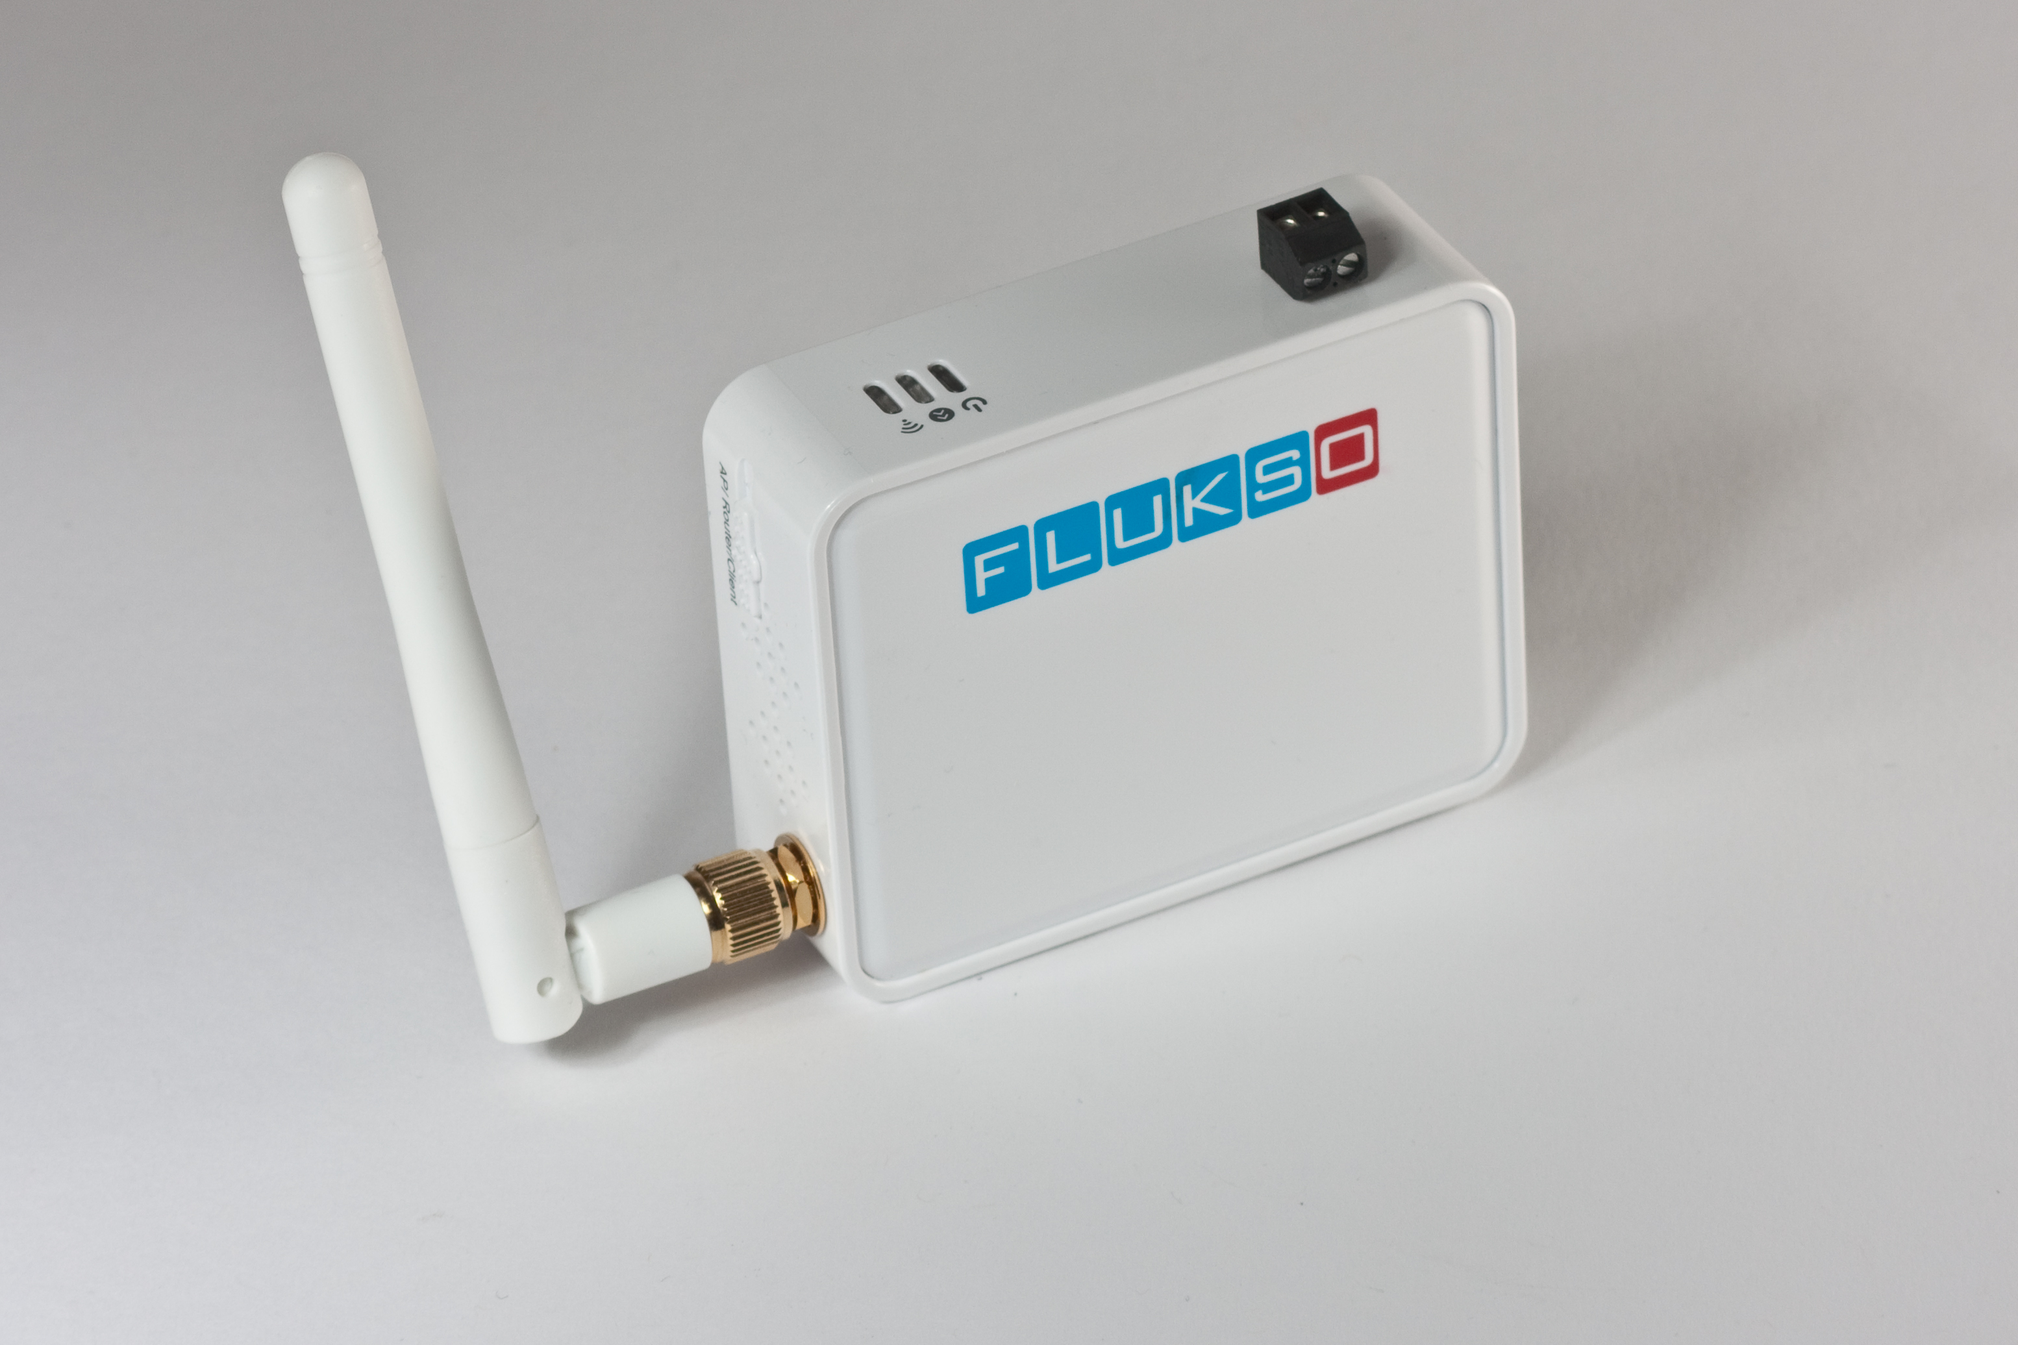
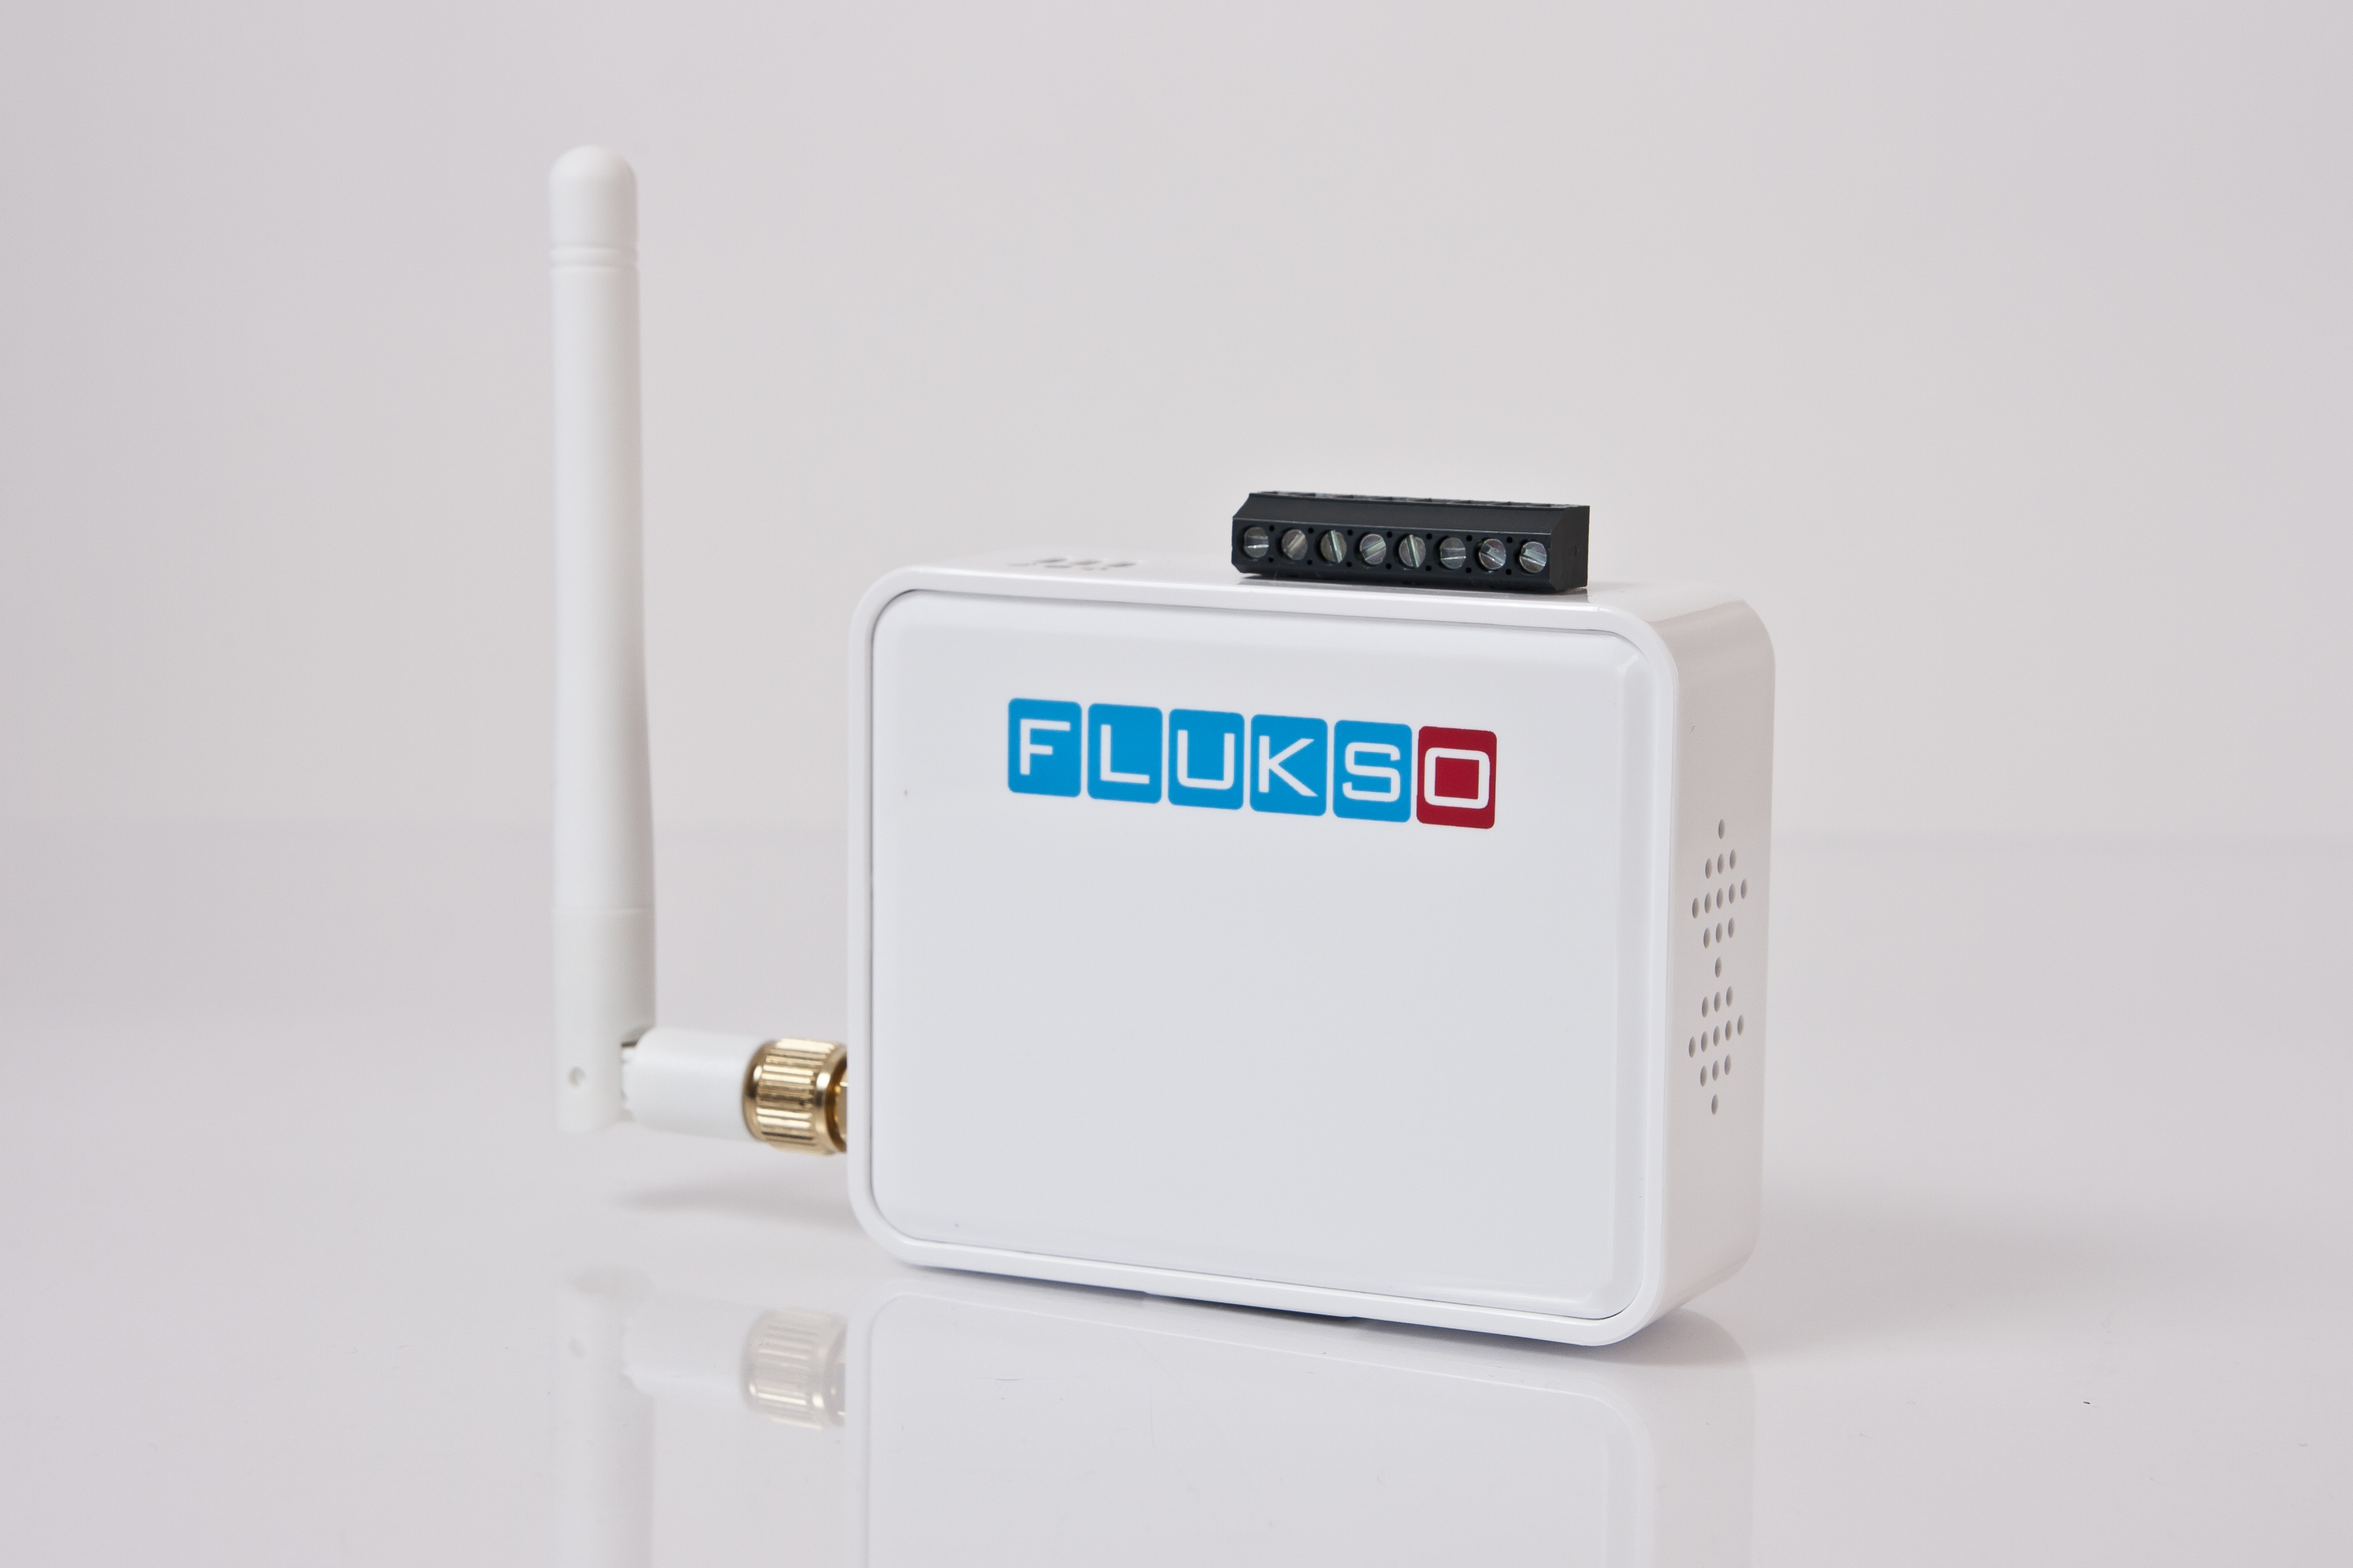
added new flukso and chumby pics

diff --git a/main.tex b/main.tex
@@ -9,10 +9,10 @@
 \documentclass[12pt,BCOR=8.5mm]{scrartcl}
 \title{Power to the People}
 \subtitle{Das Stromnetz der Zukunft}
-\author{Mathias Dalheimer}
+\author{Mathias Dalheimer \texttt{<md@gonium.net>}}
 %% PDF SETUP
 \usepackage[pdftex, bookmarks, colorlinks, breaklinks,
-pdftitle=\title,pdfauthor=\author,plainpages=false]{hyperref}  
+pdftitle=\title,pdfauthor={Mathias Dalheimer},plainpages=false]{hyperref}  
 \hypersetup{linkcolor=blue,citecolor=blue,filecolor=black,urlcolor=blue,plainpages=false} 
 
 \clubpenalty=3000 % adjust for widows and orphans 10000 is max
@@ -772,15 +772,29 @@ zwei Ansätze:
 \end{enumerate}
 
 Zur lokalen Anzeige der Verbrauchsinformationen bekommen die Teilnehmer
-zusätzlich auch einen "`Chumby"', vgl. Abbildung \todo{Bild}. Der Chumby
-basiert technisch ebenso wie der Flukso auf einem WLAN-Router, hat
-allerdings einen Touchscreen und einen Lautsprecher integriert. Es sind
-schon viele Applikationen für den Chumby verfügbar, sodass das Gerät
-neben Stromverbrauchsinformationen auch den Wetterbericht anzeigen und
-Internetradio abspielen kann. Unsere Nutzer können sich die
-Applikationen selbst zusammenstellen. Welche Darstellungsformen für die
-Strominformationen am Sinnvollsten sind, werden wir in der kommenden
-Zeit zusammen mit unseren Projektteilnehmern erarbeiten.
+zusätzlich auch einen "`Chumby"', vgl. Abbildung \ref{fig:chumby}. 
+\begin{figure}[htbp]
+  \begin{center}
+    \includegraphics[width=\imgwidth]{figures/chumby.jpg}
+    \caption{Der Chumby zeigt kleine Widgets an: Wetterbericht,
+    Nachrichten und zukünftig auch den Stromverbrauch. Mit dem
+    integrierten Internetradio ist er optimal als Küchenradio
+    einzusetzen.}
+    \label{fig:chumby}
+  \end{center}
+\end{figure}
+Der Chumby basiert technisch ebenso wie der Flukso auf einem
+WLAN-Router, hat allerdings einen Touchscreen und einen Lautsprecher
+integriert. Es sind schon viele Applikationen für den Chumby verfügbar,
+sodass das Gerät neben Stromverbrauchsinformationen auch den
+Wetterbericht anzeigen und Internetradio abspielen kann. Da der Chumby
+permanent angeschaltet ist, kann er im Hintergrund Informationen
+anzeigen. Diese müssen auf einen Blick verständlich sein. Das Ziel ist
+hier, eine permanente Verbrauchsanzeige zu realisieren.  Welche
+Darstellungsformen für die Strominformationen am Sinnvollsten sind,
+werden wir in der kommenden Zeit zusammen mit unseren Projektteilnehmern
+erarbeiten. Zusätzlich wird der Chumby auch als Schaltzentrale für den
+Haushalt genutzt, siehe Abschnitt \ref{sub:steuern}.
 
 Auch für andere Anwendungen ist die Messung von Stromverbräuchen
 interessant. Für die Eigentümer von Photovoltaik-Anlagen werden wir in
